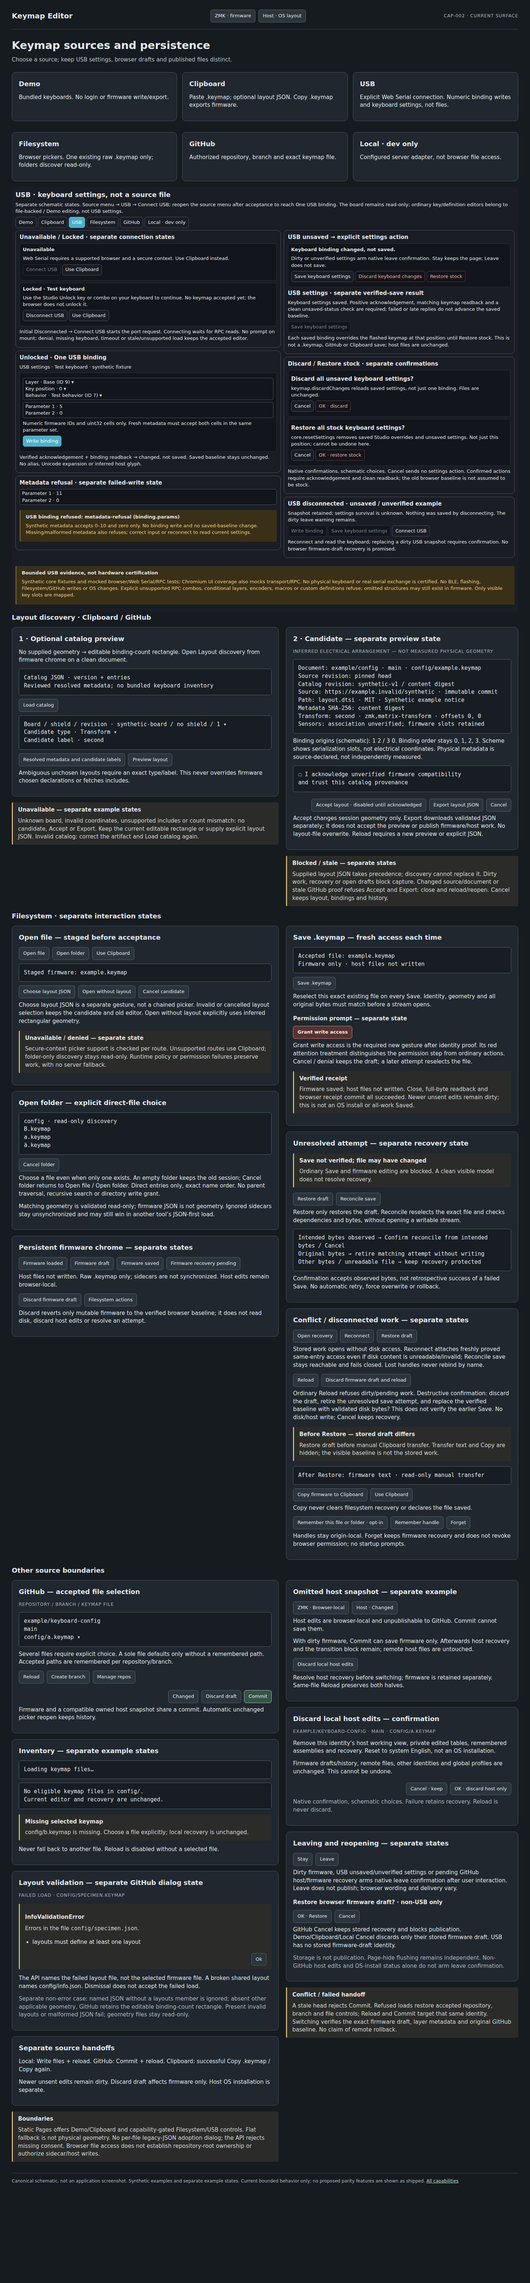
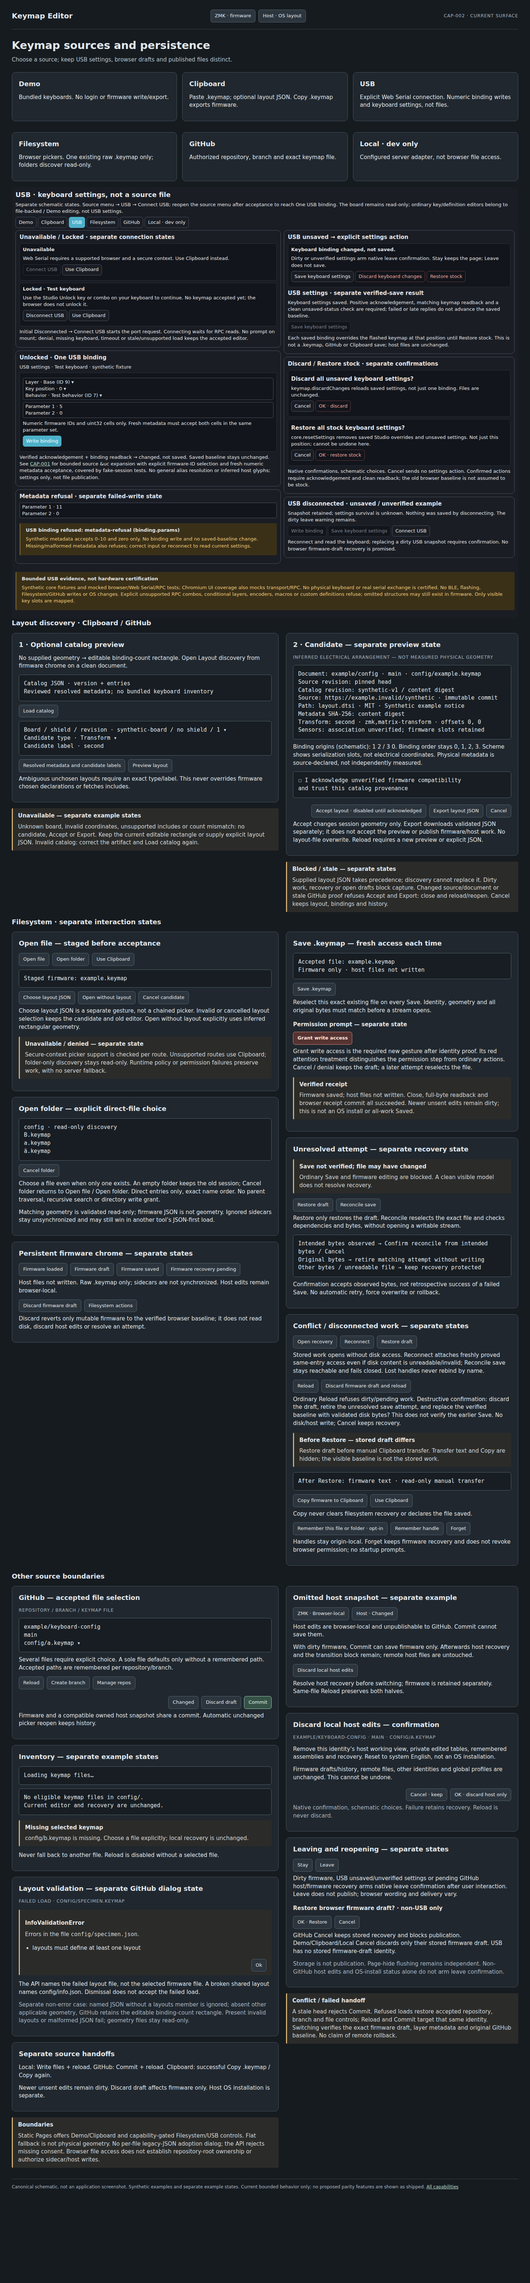
Document bounded Unicode USB writes and their evidence.

Changed region(s): [[0.0312, 0.1868, 0.9688, 0.9027], [0.0312, 0.6848, 0.5, 0.965], [0.0312, 0.4047, 0.5, 0.5915]]

diff --git a/docs/product/wireframes/html/CAP-001-firmware-keymap-editing.html b/docs/product/wireframes/html/CAP-001-firmware-keymap-editing.html
@@ -31,14 +31,21 @@
 <div class="actions" aria-label="Source selection"><span class="macro-action outline">Demo</span><span class="macro-action outline">Clipboard</span><span class="macro-action accent">USB</span><span class="macro-action outline">Filesystem</span><span class="macro-action outline">GitHub</span><span class="macro-action outline">Local · dev only</span></div>
 <div class="columns"><div>
 <section class="card"><h2>Unavailable / Locked · separate connection states</h2><div class="macro-group"><strong>Unavailable</strong><p>Web Serial requires a supported browser and a secure context. Use Clipboard instead.</p><div class="actions"><span class="macro-action outline disabled">Connect USB</span><span class="macro-action outline">Use Clipboard</span></div></div><div class="macro-group"><strong>Locked · Test keyboard</strong><p>Use the Studio Unlock key or combo on your keyboard to continue. No keymap accepted yet; the browser does not unlock it.</p><div class="actions"><span class="macro-action outline">Disconnect USB</span><span class="macro-action outline">Use Clipboard</span></div></div><p>Initial Disconnected → Connect USB starts the port request. Connecting waits for RPC reads. No prompt on mount; denial, missing keyboard, timeout or stale/unsupported load keeps the accepted editor.</p></section>
-<section class="card"><h2>Unlocked · One USB binding</h2><p>USB settings · Test keyboard · synthetic fixture</p><div class="macro-group"><div class="field">Layer · Base (ID 9) ▾<br>Key position · 0 ▾<br>Behavior · Test behavior (ID 7) ▾</div><div class="field">Parameter 1 · 5<br>Parameter 2 · 0</div><p>Numeric firmware IDs and uint32 cells only. Fresh metadata must accept both cells in the same parameter set.</p><div class="actions"><span class="macro-action accent">Write binding</span></div></div><p>Verified acknowledgement + binding readback → changed, not saved. Saved baseline stays unchanged. No alias, Unicode expansion or inferred host glyph.</p></section>
+<section class="card"><h2>Unlocked · One USB binding</h2><p>USB settings · Test keyboard · synthetic fixture</p><div class="macro-group"><div class="field">Layer · Base (ID 9) ▾<br>Key position · 0 ▾<br>Behavior · Test behavior (ID 7) ▾</div><div class="field">Parameter 1 · 5<br>Parameter 2 · 0</div><p>Numeric firmware IDs and uint32 cells only. Fresh metadata must accept both cells in the same parameter set.</p><div class="actions"><span class="macro-action accent">Write binding</span></div></div><p>Verified acknowledgement + binding readback → changed, not saved. Saved baseline stays unchanged. This numeric-entry example does not infer aliases or host glyphs; Unicode source entry is separate below.</p></section>
 <section class="card"><h2>Metadata refusal · separate failed-write state</h2><div class="field">Parameter 1 · 11<br>Parameter 2 · 0</div><div class="notice"><strong>USB binding refused: metadata-refusal (binding.params)</strong><p>Synthetic metadata accepts 0–10 and zero only. No binding write and no saved-baseline change. Missing/malformed metadata also refuses; correct input or reconnect to read current settings.</p></div></section>
 </div><div>
 <section class="card"><h2>USB unsaved → explicit settings action</h2><div class="macro-group"><strong>Keyboard binding changed, not saved.</strong><p>Dirty or unverified settings arm native leave confirmation. Stay keeps the page; Leave does not save.</p><div class="actions"><span class="macro-action outline">Save keyboard settings</span><span class="macro-action danger">Discard keyboard changes</span><span class="macro-action danger">Restore stock</span></div></div><h3>USB settings · separate verified-save result</h3><p>Keyboard settings saved. Positive acknowledgement, matching keymap readback and a clean unsaved-status check are required; failed or late replies do not advance the saved baseline.</p><div class="actions"><span class="macro-action outline disabled">Save keyboard settings</span></div><p>Each saved binding overrides the flashed keymap at that position until Restore stock. This is not a .keymap, GitHub or Clipboard save; host files are unchanged.</p></section>
 <section class="card"><h2>Discard / Restore stock · separate confirmations</h2><div class="macro-group"><h3>Discard all unsaved keyboard settings?</h3><p>keymap.discardChanges reloads saved settings, not just one binding. Files are unchanged.</p><div class="actions"><span class="macro-action outline">Cancel</span><span class="macro-action danger">OK · discard</span></div></div><div class="macro-group"><h3>Restore all stock keyboard settings?</h3><p>core.resetSettings removes saved Studio overrides and unsaved settings. Not just this position; cannot be undone here.</p><div class="actions"><span class="macro-action outline">Cancel</span><span class="macro-action danger">OK · restore stock</span></div></div><p>Native confirmations, schematic choices. Cancel sends no settings action. Confirmed actions require acknowledgement and clean readback; the old browser baseline is not assumed to be stock.</p></section>
 <section class="card"><h2>USB disconnected · unsaved / unverified example</h2><p>Snapshot retained; settings survival is unknown. Nothing was saved by disconnecting. The dirty leave warning remains.</p><div class="actions"><span class="macro-action outline disabled">Write binding</span><span class="macro-action outline disabled">Save keyboard settings</span><span class="macro-action outline">Connect USB</span></div><p>Reconnect and read the keyboard; replacing a dirty USB snapshot requires confirmation. No browser firmware-draft recovery is promised.</p></section>
 </div></div>
-<div class="notice"><strong>Bounded USB evidence, not hardware certification</strong><p>Synthetic core fixtures and mocked browser/Web Serial/RPC tests; Chromium UI coverage also mocks transport/RPC. No physical keyboard or real serial exchange is certified. No BLE, flashing, Filesystem/GitHub writes or OS changes. Explicit unsupported RPC combos, conditional layers, encoders, macros or custom definitions refuse; omitted structures may still exist in firmware. Only visible key slots are mapped.</p></div>
+<div class="notice"><strong>Bounded USB evidence, not hardware certification</strong><p>Synthetic core fixtures and mocked browser/Web Serial/RPC tests; Chromium UI coverage also mocks transport/RPC. No physical keyboard or real serial exchange is certified. No BLE, flashing, Filesystem/GitHub writes or OS changes. Explicit unsupported RPC combos, conditional layers, encoders, macros or custom definitions refuse; omitted structures may still exist in firmware. Only visible key slots are mapped.</p></div><section aria-label="Unicode USB accepted and refused examples">
+<h2>Unicode USB · separate fake-session examples</h2>
+<div class="columns"><div>
+<section class="card"><h2>Accepted metadata · Unicode (&amp;uc)</h2><p>Unlocked · One USB binding · synthetic Test keyboard</p><div class="macro-group"><div class="field">Layer · Base (ID 9) ▾<br>Key position · 0 ▾<br>Binding format · Unicode (&amp;uc) ▾</div><div class="field">Source &amp;uc binding · &amp;uc UC_DE_AE<br>Firmware behavior ID · Selected firmware behavior (ID 37) ▾</div><p>Select the firmware ID explicitly; names and the current key do not identify &amp;uc. A new accepted connection clears this choice.</p><div class="actions"><span class="macro-action accent">Write binding</span></div></div><p>Review annotation: core expands to <code>0xE4, 0xC4</code>. Fresh metadata accepts both uint32 values in one numeric set before <code>setLayerBinding</code>. Acknowledgement + numeric readback → changed, not saved.</p><p>Other tested inputs: <code>&amp;uc 0xE4 0</code> retains Shift zero; <code>&amp;uc UC_SET_LINUX</code> expands to <code>0xffffff, 1</code>. Each pair needs fresh metadata acceptance.</p></section>
+</div><div>
+<section class="card"><h2>Refused metadata · same source binding</h2><div class="field">Source &amp;uc binding · &amp;uc UC_DE_AE<br>Firmware behavior ID · Selected firmware behavior (ID 37) ▾</div><div class="notice"><strong>USB binding refused: missing-unicode-parameter-set</strong><p>Stock urob without .parameter_metadata remains refused. Web fake-session tests cover absent/empty metadata, rejected values, split sets and HID-only options: no setLayerBinding, snapshot change or saved-baseline change.</p></div><p>Cached acceptance is not enough. Lock, disconnect or session replacement during the fresh probe also blocks sending.</p><p>Web fake-session tests prove refusal before any RPC for an unknown alias, one numeric argument, a surrogate (such as <code>&amp;uc 0xD800 0</code>) and a value above <code>0x10FFFF</code>.</p><p>Core-only refusal coverage: nested/excess source forms and nil/layer metadata options. No web-session consequences are certified for those cases.</p><p>No metadata patch, firmware build/flash or OS setup occurs here.</p></section>
+<div class="notice"><strong>Evidence boundary · not connected-keyboard certification</strong><p>Synthetic core fixtures and fake-session/mock-transport component tests only. Passing client tests do not certify a connected keyboard, installed metadata, firmware acceptance or Unicode output. A successful fake save retains the settings-override notice; it is not .keymap publication and leaves file-save state unchanged.</p></div>
+</div></div></section>
 </div></section><h2>File-backed / Demo editing · separate from USB</h2><section class="unicode-study behavior-help" aria-label="Behavior documentation help">
 <h2>Behavior chips · documentation without selecting</h2>
 <p>Canonical schematic · native title examples are written out below for review, not a new help popover.</p>

diff --git a/docs/product/wireframes/html/CAP-002-keymap-sources-and-persistence.html b/docs/product/wireframes/html/CAP-002-keymap-sources-and-persistence.html
@@ -15,7 +15,7 @@
 <div class="actions" aria-label="Source selection"><span class="macro-action outline">Demo</span><span class="macro-action outline">Clipboard</span><span class="macro-action accent">USB</span><span class="macro-action outline">Filesystem</span><span class="macro-action outline">GitHub</span><span class="macro-action outline">Local · dev only</span></div>
 <div class="columns"><div>
 <section class="card"><h2>Unavailable / Locked · separate connection states</h2><div class="macro-group"><strong>Unavailable</strong><p>Web Serial requires a supported browser and a secure context. Use Clipboard instead.</p><div class="actions"><span class="macro-action outline disabled">Connect USB</span><span class="macro-action outline">Use Clipboard</span></div></div><div class="macro-group"><strong>Locked · Test keyboard</strong><p>Use the Studio Unlock key or combo on your keyboard to continue. No keymap accepted yet; the browser does not unlock it.</p><div class="actions"><span class="macro-action outline">Disconnect USB</span><span class="macro-action outline">Use Clipboard</span></div></div><p>Initial Disconnected → Connect USB starts the port request. Connecting waits for RPC reads. No prompt on mount; denial, missing keyboard, timeout or stale/unsupported load keeps the accepted editor.</p></section>
-<section class="card"><h2>Unlocked · One USB binding</h2><p>USB settings · Test keyboard · synthetic fixture</p><div class="macro-group"><div class="field">Layer · Base (ID 9) ▾<br>Key position · 0 ▾<br>Behavior · Test behavior (ID 7) ▾</div><div class="field">Parameter 1 · 5<br>Parameter 2 · 0</div><p>Numeric firmware IDs and uint32 cells only. Fresh metadata must accept both cells in the same parameter set.</p><div class="actions"><span class="macro-action accent">Write binding</span></div></div><p>Verified acknowledgement + binding readback → changed, not saved. Saved baseline stays unchanged. No alias, Unicode expansion or inferred host glyph.</p></section>
+<section class="card"><h2>Unlocked · One USB binding</h2><p>USB settings · Test keyboard · synthetic fixture</p><div class="macro-group"><div class="field">Layer · Base (ID 9) ▾<br>Key position · 0 ▾<br>Behavior · Test behavior (ID 7) ▾</div><div class="field">Parameter 1 · 5<br>Parameter 2 · 0</div><p>Numeric firmware IDs and uint32 cells only. Fresh metadata must accept both cells in the same parameter set.</p><div class="actions"><span class="macro-action accent">Write binding</span></div></div><p>Verified acknowledgement + binding readback → changed, not saved. Saved baseline stays unchanged. See <a href="CAP-001-firmware-keymap-editing.html">CAP-001</a> for bounded source &amp;uc expansion with explicit firmware-ID selection and fresh numeric metadata acceptance, covered by fake-session tests. No general alias resolution or inferred host glyphs; settings only, not file publication.</p></section>
 <section class="card"><h2>Metadata refusal · separate failed-write state</h2><div class="field">Parameter 1 · 11<br>Parameter 2 · 0</div><div class="notice"><strong>USB binding refused: metadata-refusal (binding.params)</strong><p>Synthetic metadata accepts 0–10 and zero only. No binding write and no saved-baseline change. Missing/malformed metadata also refuses; correct input or reconnect to read current settings.</p></div></section>
 </div><div>
 <section class="card"><h2>USB unsaved → explicit settings action</h2><div class="macro-group"><strong>Keyboard binding changed, not saved.</strong><p>Dirty or unverified settings arm native leave confirmation. Stay keeps the page; Leave does not save.</p><div class="actions"><span class="macro-action outline">Save keyboard settings</span><span class="macro-action danger">Discard keyboard changes</span><span class="macro-action danger">Restore stock</span></div></div><h3>USB settings · separate verified-save result</h3><p>Keyboard settings saved. Positive acknowledgement, matching keymap readback and a clean unsaved-status check are required; failed or late replies do not advance the saved baseline.</p><div class="actions"><span class="macro-action outline disabled">Save keyboard settings</span></div><p>Each saved binding overrides the flashed keymap at that position until Restore stock. This is not a .keymap, GitHub or Clipboard save; host files are unchanged.</p></section>

diff --git a/docs/product/capabilities/CAP-001-firmware-keymap-editing.md b/docs/product/capabilities/CAP-001-firmware-keymap-editing.md
@@ -7,8 +7,10 @@
 
 ### USB keyboard settings
 
-- An accepted, unlocked USB session exposes One USB binding in the USB source controls: choose an existing firmware layer, visible key position and advertised behavior ID, then enter both uint32 parameter cells and Write binding. The board snapshot remains read-only through the ordinary KeyEditor/document-edit paths; these controls are not a `.keymap` authoring surface.
+- An accepted, unlocked USB session exposes One USB binding in the USB source controls: choose an existing firmware layer, visible key position and binding format. Numeric cells uses an advertised behavior ID and both uint32 parameter cells. Unicode (`&uc`) takes a source binding plus an explicitly selected advertised firmware behavior ID; neither the display name nor the current key identifies `&uc`, and a new accepted connection clears that explicit ID choice. Write binding uses the existing session, not a second transport. The board snapshot remains read-only through the ordinary KeyEditor/document-edit paths; these controls are not a `.keymap` authoring surface.
+- Unicode source input expands in core to exactly two uint32 values before sending: `&uc UC_DE_AE` becomes `0xE4, 0xC4`; explicit decimal/hex scalar pairs retain Shift zero without inferring uppercase. Known `UC_SET_*` aliases expand to `0xffffff` plus the module's mode index (`UC_SET_MACOS` = 0, `UC_SET_LINUX` = 1, `UC_SET_EMACS` = 5). Web fake-session tests prove refusal before any RPC for an unknown alias, one numeric argument, a surrogate and a value above `0x10FFFF`; alias text is never sent as a parameter. Nested/excess source forms have core-only refusal coverage, not proof of web-session consequences.
 - Write binding rechecks the live session, lock, layout and keymap, then fetches the selected behavior's metadata. Both cells must match the same advertised parameter set. Missing/malformed metadata or an unaccepted value refuses the write with a visible reason, including `metadata-refusal`, without sending `setLayerBinding` or advancing the saved baseline. An acknowledged write with matching binding readback updates the snapshot but remains unsaved.
+- Unicode writes additionally require fresh `getBehaviorDetails` metadata for the explicitly selected firmware ID with one numeric constant/range parameter set accepting both expanded uint32 values. Shift zero must be advertised; a mode switch requires acceptance of the sentinel and its index 0–5. Web fake-session tests prove that absent/empty metadata, rejected values, split sets and HID-only options report `missing-unicode-parameter-set` without sending `setLayerBinding` or changing the snapshot/saved baseline. Nil/layer options have core-only Unicode metadata refusal coverage, not proof of web-session consequences. Stock urob firmware without `.parameter_metadata` remains refused; cached acceptance does not bypass this probe. Session replacement, locking or disconnect during the probe also blocks the send.
 - Save keyboard settings uses `keymap.saveChanges`; only positive acknowledgement, matching keymap readback and a clean unsaved-status check advance the saved baseline. Each saved binding overrides the flashed keymap at that position until Restore stock. Confirmed Discard keyboard changes uses `keymap.discardChanges` for all unsaved keyboard settings; confirmed Restore stock uses `core.resetSettings` for all Studio settings, not just the selected position. Both reload the resulting settings rather than assuming the old browser baseline is stock.
 - Dirty or unverified USB settings arm the leave warning. Disconnect retains the accepted snapshot and dirty warning but disables writes; a late save reply does not mark settings saved. Unsaved-setting survival is unknown, and there is no browser-draft recovery promise. Connection and settings-versus-file boundaries follow [CAP-002](CAP-002-keymap-sources-and-persistence.md).
 
@@ -49,8 +51,9 @@
 
 ## Implementation
 
-- `apps/web/src/lib/components/Pickers/UsbPicker.svelte` and `apps/web/src/lib/usb-studio.ts` — numeric binding controls, confirmation, live-session preflight, RPC acknowledgement/readback and settings actions.
-- `packages/keymap-core/src/studio-rpc-session.ts` — transport-free numeric/geometry mapping, lossless request encoding and `buildValidatedStudioSetLayerBinding` metadata validation.
+- `apps/web/src/lib/components/Pickers/UsbPicker.svelte` and `apps/web/src/lib/usb-studio.ts` — numeric/Unicode binding controls, explicit Unicode firmware-ID selection, confirmation, live-session preflight, fresh metadata probe, RPC acknowledgement/readback and settings actions.
+- `packages/keymap-core/src/studio-unicode-binding.ts` — `expandStudioUnicodeBinding` expands supported source `&uc` parameters without resolving firmware identity or mutating the source binding.
+- `packages/keymap-core/src/studio-rpc-session.ts` — transport-free numeric/geometry mapping, lossless request encoding, `buildValidatedStudioSetLayerBinding` metadata validation and the stricter numeric-set-only `validateStudioUnicodeMetadata` probe.
 - `apps/web/src/lib/editor/select-keyboard.ts`, `apps/web/src/lib/editor/document.svelte.ts`, `apps/web/src/lib/editor/leave-warning.ts` and `apps/web/src/App.svelte` — accepted USB snapshot updates, ordinary-edit refusal, dirty leave guard and USB settings/unsaved/disconnected chrome.
 - `apps/web/src/lib/components/KeyEditorHost.svelte` — obtains only `editor.activeProfileId('en')` and its registry table, tracking table revisions, and computes `unicodeHostLayoutCompatibility` from core. `apps/web/src/lib/components/KeyEditor/KeyEditor.svelte` passes the result unchanged to `apps/web/src/lib/components/KeyEditor/UnicodePicker.svelte`, which renders accessible state/diagnostics without compatibility logic or repair.
 - `packages/keymap-core/src/unicode-host-layout.ts` — pure base-output compatibility result; `packages/keymap-core/src/unicode.ts` owns Unicode binding/scalar handling.
@@ -78,10 +81,11 @@
 
 ## Rules and boundaries
 
-- USB settings writes do not update a `.keymap`, Filesystem file, GitHub commit, Clipboard export or host snapshot, and do not build/flash firmware or change OS settings. USB uses Web Serial only, not BLE/Web Bluetooth or a Tauri bridge. Numeric behavior IDs/display names do not establish devicetree aliases or host glyphs; there is no alias or `&uc` expansion.
-- USB metadata acceptance is bounded to constants, nonnegative uint32 values within advertised ranges, actual firmware layer IDs and bounded plain keyboard/consumer HID usages. Empty metadata refuses; empty cell options or nil accept only zero. Nested/excess arguments, inferred modifier/signed encodings and unknown/malformed structures refuse. Only the active physical layout's visible key prefix is mapped; hidden firmware tail slots are neither editable nor exported.
+- USB settings writes do not update a `.keymap`, Filesystem file, GitHub commit, Clipboard export or host snapshot, and do not build/flash firmware or change OS settings. USB uses Web Serial only, not BLE/Web Bluetooth or a Tauri bridge. Numeric behavior IDs/display names do not establish devicetree aliases or host glyphs. Source `&uc` expansion is bounded to core's pinned Unicode aliases, mode switches and explicit scalar pairs; it is not general alias resolution or proof that the explicitly selected firmware ID executes Unicode. Even a successful fake Unicode write/save retains the settings-override notice and leaves file-publication state unchanged.
+- Generic numeric USB metadata acceptance is bounded to constants, nonnegative uint32 values within advertised ranges, actual firmware layer IDs and bounded plain keyboard/consumer HID usages. Empty metadata refuses; empty cell options or nil accept only zero on that generic path, never as evidence of a Unicode numeric set. Nested/excess arguments, inferred modifier/signed encodings and unknown/malformed structures refuse. Only the active physical layout's visible key prefix is mapped; hidden firmware tail slots are neither editable nor exported.
 - USB does not author combos, conditional layers, encoder sensor bindings, macros or custom behavior definitions (including hold-taps). Explicit unsupported fields in mapped RPC content refuse, even when empty. Their omission from RPC does not prove their absence from flashed firmware; an advertised behavior ID is not a definition payload.
 - USB evidence uses synthetic core fixtures, mocked browser/Web Serial and RPC boundaries, and a Chromium workflow with mocked transport/RPC. No physical keyboard, real serial exchange, firmware runtime or hardware compatibility is certified. The file-backed/Demo features below do not become USB features.
+- Unicode USB acceptance/refusal and save isolation are bounded to synthetic core metadata fixtures and fake-session/mock-transport component tests. Passing client tests do not certify a connected keyboard, installed urob parameter metadata, firmware acceptance or Unicode character output. The numeric Chromium workflow is not Unicode browser/hardware certification; the firmware-metadata dependency remains external to this editor.
 - Core owns local help destinations, semantic categories (exact binding, family, recipe pattern) and their English hints. Code-only callers retain the exact allowlist; named-family resolution additionally requires a matching non-override document `holdTaps` entry with both child bindings, and refuses a matching opaque or non-hold-tap `behaviorDefinitions` entry. KeyEditorHost supplies the current document rather than inferring proof from catalog labels/arity/flags. Recipe help requires the explicit editor-owned selection context, not an arbitrary `&rgblayer_*` name. Lookup is not a network request, authoring permission, firmware compatibility check, module installation, OS configuration or device unlock. Documentation gestures do not publish or execute a binding. Native title discovery remains the existing desktop interaction; there is no new touch-help or custom tooltip workflow.
 - Unicode compatibility checks editor-managed base outputs for digits, A–F, U, Space and Enter, not the active OS layout or firmware runtime. No fallback layout selection, mapping repair, OS detection/switching, or changes to `west.yml`, `.conf`, module `default-mode` or firmware setup occur. Existing source/header preservation remains separate; a compatible table does not prove module installation or mode-specific host input support.
 - Primary firmware JSON containing `&hm` or `&as` as the leading binding label in layers, combos or sensor bindings requires a matching non-override `holdTaps` declaration; otherwise adapters fall back to raw DTS under ADR 0002. A same-label macro or behavior definition alone does not satisfy this dependency. Neither preset becomes stock; lookalike and malformed labels stay rejected, and other unknown labels still require the existing explicit source-import or declared-model allowance.
@@ -106,6 +110,9 @@
 - `packages/keymap-core/src/studio-rpc-session.test.ts` — synthetic unlocked-session mapping, firmware IDs and both numeric cells, physical coordinates and visible-prefix preservation, hidden-slot refusal, missing/unsupported payloads and lossless request encoding. Metadata acceptance is exercised by the web write suite below, not this encoder-only suite.
 - `apps/web/src/lib/usb-studio.test.ts` — mocked Web Serial/RPC connection, unlock, stale-load and disconnect guards; ordinary board edits, file publication and Clipboard copy remain blocked for USB snapshots.
 - `apps/web/src/lib/usb-studio-write.test.ts` — metadata-accepted/refused writes, fresh metadata and stale-session checks, acknowledgement/readback failures, saved-baseline handling, all-settings discard/reset, explicit controls, restore-stock consent and dirty/disconnected leave protection using browser/RPC doubles.
+- `packages/keymap-core/src/studio-unicode-binding.test.ts` — pinned alias pairs and all six mode indices, explicit scalar pairs/Shift zero, immutable source input and invalid/unsupported expansion refusal; no firmware or transport evidence.
+- `packages/keymap-core/src/studio-unicode-metadata.test.ts` — synthetic `getBehaviorDetails` fixtures accept both expanded cells in one numeric set; absent/empty stock-style metadata, split sets, HID/nil/layer options, invalid scalars/modes and malformed/wrong-ID responses refuse. These fixtures are not hardware captures.
+- `apps/web/src/lib/usb-unicode-write.test.ts` — fake-session/mock Web Serial/RPC tests mount the production controls for alias, Shift-zero and Linux-mode writes, explicit ID selection/reset, visible invalid-source/metadata refusal and lock/disconnect gating. Session tests cover fresh-metadata rejection, stale-session refusal, expanded numeric sends/readback and successful fake save with the settings-override notice and unchanged file-save/publication state. No connected keyboard is certified.
 - `e2e/usb-studio-write.spec.ts` — real Chromium UI with mocked transport/RPC: numeric refusal/write/save/reset/disconnect, dirty native leave confirmation, keyboard activation and control reachability in light/dark at 1280×720 and 360×640. This is not physical-keyboard or native Web Serial picker evidence.
 - `packages/keymap-core/src/zmk-docs.test.ts` — every built-in catalog entry has its exact selected URL and binding help category, including both full Miscellaneous fragments and explicit rejection of the obsolete `/transparent` and `/none` routes. Parsed arbitrary named hold-taps receive family help without metadata mutation, while opaque/unproven definitions, lookalikes and legacy reset remain unlinked. Preset/family/recipe-pattern categories and the explicit recipe destination are asserted locally. These are offline assertions, not remote page/anchor-health tests; live reachability is separate maintenance-audit evidence.
 - `apps/web/src/lib/components/KeyEditor/KeyEditor.test.ts` — built-in and document-proven family help retain descriptive titles and safe Ctrl/Meta opens with zero selection/confirm callbacks, including exact full URLs for Transparent and None. Opaque metadata, forged choice hints, unknown two-parameter and legacy choices stay unlinked. Every recipe chip across four layers, both presets and the two corrected binding chips preserve local color memory and no/preset/recipe staged flags (checked through the eventual Apply payload); HSB modified clicks are not intercepted. Ordinary preset/recipe selection and color edits remain controls.

diff --git a/docs/product/capabilities/CAP-002-keymap-sources-and-persistence.md b/docs/product/capabilities/CAP-002-keymap-sources-and-persistence.md
@@ -62,7 +62,7 @@
 ## Rules and boundaries
 
 - USB evidence is limited to synthetic core fixtures, mocked browser/Web Serial and RPC tests, plus Chromium UI tests with mocked transport/RPC. No physical keyboard, native serial picker, real serial exchange or firmware runtime is certified. Device name/serial information identifies the connection, not supported features or hardware compatibility.
-- USB is settings-only over Web Serial: no BLE/Web Bluetooth, Tauri bridge, firmware build/flash, file/host publication or OS changes. Its numeric snapshot is not a reconstructed `.keymap` or proof of stock aliases. Metadata refusal and the bounded numeric parameter forms follow [CAP-001](CAP-001-firmware-keymap-editing.md); no alias or `&uc` expansion is provided.
+- USB is settings-only over Web Serial: no BLE/Web Bluetooth, Tauri bridge, firmware build/flash, file/host publication or OS changes. Its numeric snapshot is not a reconstructed `.keymap` or proof of stock aliases. Metadata refusal, bounded numeric parameter forms and bounded source `&uc` expansion follow [CAP-001](CAP-001-firmware-keymap-editing.md): fake-session tests cover explicit firmware-ID selection and fresh numeric metadata acceptance. This is not general alias resolution or connected-keyboard certification.
 - USB maps only visible bindings for the active physical layout. Explicit combos, conditional layers, sensor bindings, macro definitions and custom behavior definitions (including hold-taps) in mapped RPC content refuse, even when empty; unknown/malformed fields also refuse. Hidden tail slots are ignored and cannot be written. Omitted structures may still exist in flashed firmware; accepting a snapshot never certifies their absence or edits them.
 - Filesystem support is capability-gated, not guaranteed across browsers. Unsupported routes retain Clipboard guidance. Discovery integration is limited to Clipboard/GitHub; Filesystem and Local geometry contracts are unchanged.
 - The browser Filesystem source is raw firmware only: no file creation, Save As, deletion, force overwrite, automatic merge, watchers, host/geometry/template/marker/sidecar writes or multi-file Save. Its writer requires source-preserving splice mode. Existing GitHub JSON-first load rules still apply to unchanged sidecars; a folder grant is not repository-root ownership. Host edits stay browser-local and never enable firmware Save by themselves.
